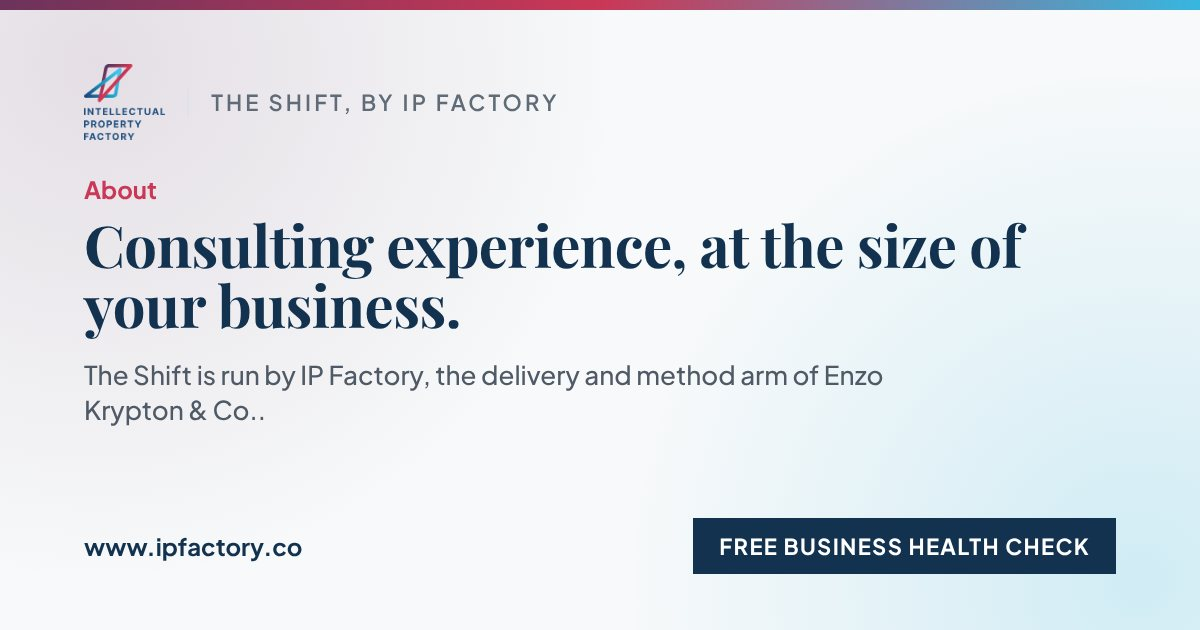
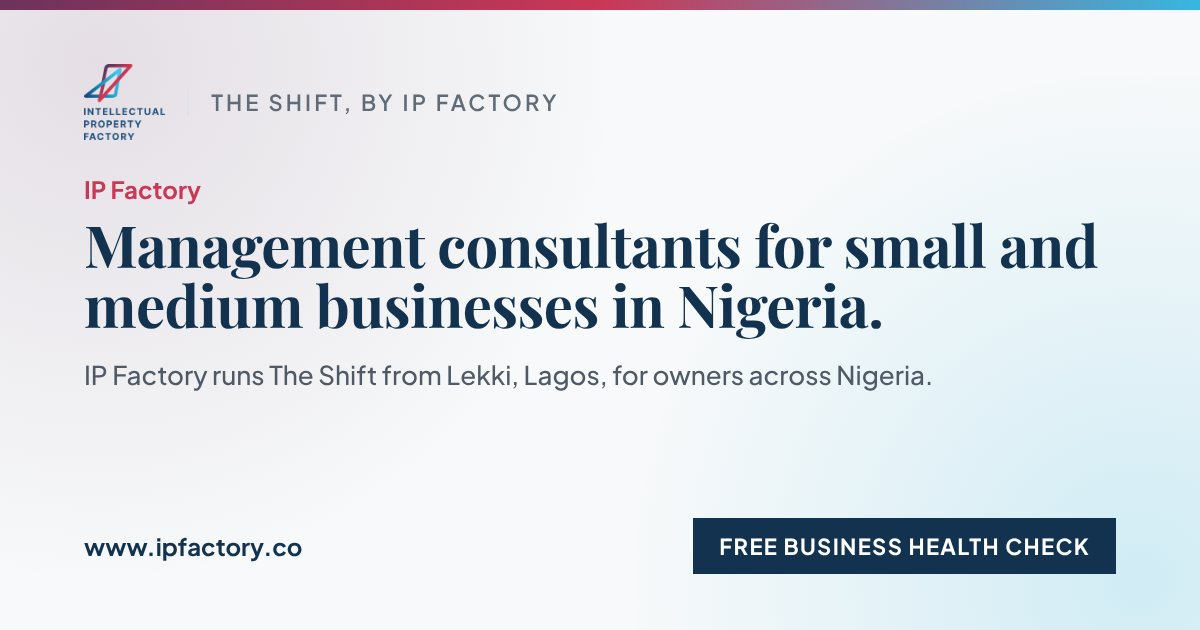
Rewrite About for what people search, and drop "We say so up front"
ET, 10 November 2026: the About page was not strong or aligned with search.
It now answers the searches an About page gets, and leaves "small business
consultant in Lagos" to the home page so the two do not compete:

- Title "About IP Factory: SME management consultants in Lekki, Lagos";
  heading "Management consultants for small and medium businesses in
  Nigeria."; the line under it says who we are, where, and who is behind us
  (Enzo Krypton & Co., 250+ clients since 2011).
- The figures the site already states (250+, 50+, Lekki) above the link to
  Experience.
- What we do, with a link to each service it names, so the page passes
  search engines on to them; how we work ("Our analysts and AI do the heavy
  lifting, under that IP Factory consultant.", no defensive aside); who it is
  for, unchanged.
- Its own questions (who is behind IP Factory, where, what size, how to
  start), also as FAQ structured data, and a new share card.
- The words search engines read live in shared/about.ts, used by the page
  and by shared/seo.ts.

Intended change to test expectations: the About tests check the new
heading, title, links and questions, and that "say so" is gone.

Claude-Session: https://claude.ai/code/session_01Q2r64sNm7T8MW5eH65ApRf

Changed region(s): [[0.0617, 0.3317, 0.925, 0.5429], [0.0617, 0.573, 0.7708, 0.6937], [0.0617, 0.2714, 0.185, 0.3317]]

diff --git a/client/src/pages/AboutPage.tsx b/client/src/pages/AboutPage.tsx
@@ -1,25 +1,35 @@
 /**
- * About (/about): who runs The Shift, what we are and are not, who it is for and who you work with. The track record,
- * clients and research are on Experience (/experience) since 6 November 2026.
+ * About (/about): who IP Factory is, where it is, who is behind it, what it does and how, and who it is for, written for
+ * the searches an About page answers (ET, 10 November 2026; the words search engines read are in shared/about.ts). The
+ * track record, clients and research are on Experience (/experience) since 6 November 2026.
  */
-import { CheckCta, useStartCheck } from "@/components/home/HomeSections";
+import { CheckCta, Faq, useStartCheck } from "@/components/home/HomeSections";
 import { Reveal, Stagger } from "@/components/motion";
 import { PageHero, SectionHeading } from "@/components/PageHero";
 import { SiteShell, usePageMeta, useScrollToTop } from "@/components/SiteShell";
+import { ABOUT_FAQ, ABOUT_FIGURES, ABOUT_HEADING, ABOUT_SUB } from "@shared/about";
 import { BRAND } from "@shared/brand";
 import { formatNaira } from "@shared/businessSupport";
-import { startingPriceOf } from "@shared/products";
-import { CheckCircle2, X } from "lucide-react";
+import { productById, servicePath, startingPriceOf } from "@shared/products";
+import { CheckCircle2 } from "lucide-react";
 import React from "react";
 import { Link } from "wouter";
 import { PAGE_META } from "@shared/pageMeta";
 
-const WHO_YOU_WORK_WITH = [
+/** How we work: what an owner can hold us to. */
+const HOW_WE_WORK = [
   `A named ${BRAND.organisationName} consultant checks every piece of work before you get it.`,
-  "Analysts prepare the work and every Session.",
-  "A partner reviews plans and funding packs.",
-  "We use AI for analysis and say so.",
+  `Our analysts and AI do the heavy lifting, under that ${BRAND.organisationName} consultant.`,
+  "A partner reviews every plan and funding pack.",
+  "Every price is on the page, and we confirm your delivery date once your records are complete.",
+  "Every piece of work ends with a handover call, then a Day-30 Review.",
 ] as const;
+
+/** A service named in the copy, linked to its page. */
+function ServiceLink({ id }: { id: string }) {
+  const product = productById(id)!;
+  return <Link href={servicePath(product)} className="font-semibold text-brand underline underline-offset-4">{product.name}</Link>;
+}
 
 export default function AboutPage() {
   useScrollToTop();
@@ -28,49 +38,71 @@ export default function AboutPage() {
 
   return (
     <SiteShell>
-      <PageHero eyebrow="About" title="Consulting experience, at the size of your business." sub={`${BRAND.productName} is run by ${BRAND.organisationName}, the delivery and method arm of ${BRAND.trackRecord.groupName}.`} />
-      <section aria-label="Our experience" className="border-b border-line bg-brand-tint py-6">
-        <p className="container mx-auto max-w-5xl text-ink-600">Our track record, the clients we have worked with and the research behind the method are on <Link href="/experience" className="font-semibold text-brand underline underline-offset-4">Experience</Link>.</p>
+      <PageHero eyebrow={`About ${BRAND.organisationName}`} title={ABOUT_HEADING} sub={ABOUT_SUB} />
+
+      <section aria-label="Our experience" className="border-b border-line bg-brand-tint py-8">
+        <div className="container mx-auto max-w-5xl">
+          <dl className="grid grid-cols-1 gap-6 text-center sm:grid-cols-3">
+            {ABOUT_FIGURES.map((figure) => (
+              <div key={figure.label}>
+                <dt className="sr-only">{figure.label}</dt>
+                <dd className="font-display text-4xl font-semibold tracking-[-0.03em] text-brand-deep">{figure.value}</dd>
+                <dd className="mt-1 text-sm text-ink-600">{figure.label}</dd>
+              </div>
+            ))}
+          </dl>
+          <p className="mt-6 text-center text-ink-600">Our track record, the clients we have worked with and the research behind the method are on <Link href="/experience" className="font-semibold text-brand underline underline-offset-4">Experience</Link>.</p>
+        </div>
       </section>
 
       <section id="what" aria-labelledby="what-heading" className="border-b border-line bg-paper-sunken/50 py-20 sm:py-24">
         <div className="container mx-auto grid max-w-5xl grid-cols-1 items-start gap-12 md:grid-cols-2">
           <Reveal>
-            <SectionHeading id="what-heading" eyebrow="What we are, and are not" title="We don't run your business; you do." />
-            <ul className="mt-6 space-y-2 text-ink-600">
-              <li className="flex items-center gap-3"><X className="h-4 w-4 text-brand" aria-hidden />We are not a course.</li>
-              <li className="flex items-start gap-3"><X className="mt-1 h-4 w-4 shrink-0 text-brand" aria-hidden />We do not hand you a report and disappear. Every piece of work ends with a handover call, and we check in thirty days later.</li>
-            </ul>
+            <SectionHeading id="what-heading" eyebrow="What we do" title="We find what is holding your business back, then fix it." />
+            <p className="mt-6 text-lg leading-relaxed text-ink-600">Every engagement starts with the problem, not a package. The free Business Health Check reads your business in ten minutes. Then you choose how we help.</p>
+            <p className="mt-4 leading-relaxed text-ink-soft">We don't run your business; you do. We are not a course: we do the work, or fix it with you.</p>
           </Reveal>
-          <Reveal delay={0.12} className="space-y-5 text-lg leading-relaxed text-ink-600 md:pt-8">
-            <p>We work out what is really wrong. Then we either do the work for you, or tell you what to do, hand you the tools and review it with you every week until it is done.</p>
-            <p className="border border-brand-line bg-brand-tint p-5 text-base text-brand-deep">Our analysts and AI do the heavy lifting, under a named {BRAND.organisationName} consultant. We say so up front.</p>
+          <Reveal delay={0.12} className="md:pt-8">
+            <ul className="space-y-5 text-ink-600">
+              <li><span className="block font-semibold text-ink">Done for You</span>Finished work from your records, in days: a <ServiceLink id="business_plan" />, a <ServiceLink id="cash_flow_forecast" /> or a <ServiceLink id="pricing_unit_cost_review" />.</li>
+              <li><span className="block font-semibold text-ink">The <ServiceLink id="business_review" /></span>Two weeks and two Sessions that find the one problem to fix first.</li>
+              <li><span className="block font-semibold text-ink">The <ServiceLink id="six_week_fix" /></span>One problem and one Measure of Success, with a Weekly Check-in until it moves.</li>
+              <li><span className="block font-semibold text-ink">Every month</span>Your <ServiceLink id="monthly_accounts" />, a <ServiceLink id="monthly_adviser_review" />, or <ServiceLink id="digital_marketing" />.</li>
+            </ul>
           </Reveal>
         </div>
       </section>
 
-      <section id="for" aria-label="Who it is for" className="border-b border-line py-20 sm:py-24">
+      <section id="how" aria-labelledby="how-heading" className="border-b border-line py-20 sm:py-24">
         <div className="container mx-auto grid max-w-5xl grid-cols-1 gap-12 md:grid-cols-2">
+          <Reveal><SectionHeading id="how-heading" eyebrow="How we work" title="A consultant you can name, on every piece of work." /></Reveal>
+          <Stagger as="ul" className="space-y-3 text-lg text-ink-600 md:pt-8">
+            {HOW_WE_WORK.map((line) => (
+              <li key={line} className="flex items-start gap-3"><CheckCircle2 className="mt-1 h-5 w-5 shrink-0 text-brand" aria-hidden />{line}</li>
+            ))}
+          </Stagger>
+        </div>
+      </section>
+
+      <section id="for" aria-labelledby="for-heading" className="border-b border-line bg-paper-sunken/50 py-20 sm:py-24">
+        <div className="container mx-auto max-w-5xl">
           <Reveal>
             <SectionHeading id="for-heading" eyebrow="Who it is for" title="Owners who already trade." />
-            <p className="mt-6 text-lg leading-relaxed text-ink-600">
+            <p className="mt-6 max-w-3xl text-lg leading-relaxed text-ink-600">
               Business owners in Nigeria who want a straight answer about their numbers, prices, cash, funding, people or sales. We work with businesses across Nigeria; most of the work happens online.
             </p>
-            <p className="mt-4 leading-relaxed text-ink-soft">
+            <p className="mt-4 max-w-3xl leading-relaxed text-ink-soft">
               Smaller business? Start with the free Business Health Check and a Done for You product, from {formatNaira(startingPriceOf("done_for_you"))}. Several problems across a larger business? Start with a Business Review; work that needs a project team goes to {BRAND.trackRecord.groupName}.
             </p>
           </Reveal>
-          <div>
-            <Reveal><SectionHeading id="team-heading" eyebrow="Who you work with" title="People, with AI behind them." /></Reveal>
-            <Stagger as="ul" className="mt-6 space-y-3 text-lg text-ink-600">
-              {WHO_YOU_WORK_WITH.map((line) => (
-                <li key={line} className="flex items-start gap-3"><CheckCircle2 className="mt-1 h-5 w-5 shrink-0 text-brand" aria-hidden />{line}</li>
-              ))}
-            </Stagger>
-          </div>
         </div>
       </section>
 
+      <section aria-label="Questions about us" className="py-20 sm:py-24">
+        <div className="container mx-auto max-w-3xl">
+          <Faq id="about-questions" heading={`Questions about ${BRAND.organisationName}`} items={ABOUT_FAQ} />
+        </div>
+      </section>
 
       <CheckCta onStart={startCheck} />
     </SiteShell>

diff --git a/test/client/pages/about.ui.test.tsx b/test/client/pages/about.ui.test.tsx
@@ -7,6 +7,7 @@ import { AVOIDED_WORDS, renderAt } from "./publicPageHarness";
 vi.mock("@/lib/trpc", async () => (await import("./publicPageHarness")).PRICES_MOCK);
 
 const { default: AboutPage } = await import("@/pages/AboutPage");
+const { ABOUT_FAQ, ABOUT_HEADING } = await import("@shared/about");
 
 afterEach(cleanup);
 
@@ -26,9 +27,25 @@ describe("About (/about)", () => {
     const forWhom = container.querySelector("#for")!.textContent!;
     expect(forWhom).toContain("a Done for You product, from ₦300,000");
     expect(forWhom).toContain("Start with a Business Review");
-    expect(forWhom).toContain("We use AI for analysis and say so.");
     expect(forWhom).not.toMatch(/training timetable|Advisory\./);
-    expect(container.querySelector("#what")!.textContent).toContain("We are not a course.");
+    expect(container.querySelector("#what")!.textContent).toContain("We are not a course");
+    // How we work names the consultant behind the AI, without the defensive aside (ET, 10 November 2026).
+    expect(container.querySelector("#how")!.textContent).toContain("Our analysts and AI do the heavy lifting, under that IP Factory consultant.");
+    expect(container.textContent).not.toMatch(/say so/i);
+  });
+
+  it("answers the searches an About page gets: who IP Factory is, where, who is behind it, and what it does (ET, 10 November 2026)", () => {
+    const { container } = renderAt("/about", AboutPage);
+    expect(screen.getByRole("heading", { level: 1 }).textContent).toBe(ABOUT_HEADING);
+    expect(document.title).toBe("About IP Factory: SME management consultants in Lekki, Lagos | The Shift, by IP Factory");
+    expect(container.textContent).toContain("Lekki, Lagos");
+    expect(container.textContent).toContain("Enzo Krypton & Co.");
+    // Each service named links to its own page, so the page passes search engines on to them.
+    const what = within(container.querySelector("#what") as HTMLElement);
+    for (const [name, path] of [["Business Plan", "/services/business-plan"], ["13-Week Cash Flow Forecast", "/services/13-week-cash-flow-forecast"], ["Business Review", "/services/business-review"], ["Six-Week Fix", "/services/six-week-fix"], ["Digital Marketing", "/services/digital-marketing"]]) {
+      expect(what.getByRole("link", { name }).getAttribute("href")).toBe(path);
+    }
+    for (const item of ABOUT_FAQ) expect(screen.getByText(item.q)).toBeTruthy();
   });
 
 });

diff --git a/shared/seo.ts b/shared/seo.ts
@@ -12,6 +12,7 @@ import { GUIDES, guidePath } from "./guides";
 
 export { HOME_META, PAGE_META, pageTitle, productMeta, SERVICE_SEARCH_TITLES, SITE_ORIGIN } from "./pageMeta";
 import { HOME_META, PAGE_META, pageTitle, productMeta, SITE_ORIGIN, type Meta } from "./pageMeta";
+import { ABOUT_FAQ, ABOUT_HEADING, ABOUT_SUB } from "./about";
 
 const ORGANISATION_ID = `${SITE_ORIGIN}/#organisation`;
 
@@ -117,7 +118,7 @@ export function publicPages(): PublicPage[] {
     }),
     page("/how-we-work", PAGE_META.howWeWork, "How we work with your business.", [PAGE_META.howWeWork.description], [], PAGE_META.howWeWork.title, { line: "The free check, four ways to work with us, and what every piece of work comes with." }),
     page("/experience", PAGE_META.experience, "We have done this before, many times.", [PAGE_META.experience.description], [], PAGE_META.experience.title, { line: `${BRAND.trackRecord.clients} clients advised since ${BRAND.trackRecord.since}, and the research behind the method.` }),
-    page("/about", PAGE_META.about, "Consulting experience, at the size of your business.", [PAGE_META.about.description]),
+    page("/about", PAGE_META.about, ABOUT_HEADING, [ABOUT_SUB, ...ABOUT_FAQ.map((item) => `${item.q} ${item.a}`)], [faqJsonLd(ABOUT_FAQ)], "About", { eyebrow: BRAND.organisationName, line: firstSentence(ABOUT_SUB) }),
     page("/guides", PAGE_META.guides, "Answers to what owners ask.", [PAGE_META.guides.description, ...GUIDES.map((guide) => `${guide.h1} ${guide.description}`)], [], PAGE_META.guides.title, { eyebrow: "Guides", line: "Plain answers to what owners in Nigeria search for." }),
     ...GUIDES.map((guide) => page(guidePath(guide), { title: guide.title, description: guide.description }, guide.h1, [guide.lede, ...guide.sections.flatMap((section) => [section.heading, ...(section.paragraphs ?? []), ...(section.points ?? [])])], [faqJsonLd(guide.faq)], guide.h1, { eyebrow: "A guide for owners in Nigeria", line: firstSentence(guide.lede) })),
     page("/questions", PAGE_META.questions, "Questions owners ask.", QUESTION_GROUPS.flatMap((group) => group.items.map((item) => `${item.q} ${item.a}`)), [faqJsonLd(QUESTION_GROUPS.flatMap((group) => group.items))], PAGE_META.questions.title, { line: "Paying, delivery dates, refunds, your information, and each service." }),

diff --git a/shared/about.ts b/shared/about.ts
@@ -1,0 +1,27 @@
+/**
+ * The About page's words that search engines read as well as people (shared/seo.ts renders them into the page's HTML
+ * and its FAQ structured data). Written for the searches an About page answers (ET, 10 November 2026): who IP Factory
+ * is, where it is, who is behind it and who it is for. The home page keeps "small business consultant in Lagos".
+ */
+import { BRAND } from "./brand";
+
+const { groupName, clients, since, partnerYears } = BRAND.trackRecord;
+const clientCount = clients.replace(/\+$/, "");
+
+export const ABOUT_HEADING = "Management consultants for small and medium businesses in Nigeria.";
+
+export const ABOUT_SUB = `${BRAND.organisationName} runs ${BRAND.productName} from Lekki, Lagos, for owners across Nigeria. We are part of ${groupName}, a Nigerian management consulting firm whose partners have advised more than ${clientCount} clients since ${since}.`;
+
+/** The figures on the page, each one the site already states and ET confirmed (shared/brand.ts). */
+export const ABOUT_FIGURES = [
+  { value: clients, label: `clients advised since ${since}` },
+  { value: partnerYears, label: "years of partner experience" },
+  { value: "Lekki", label: "our office, in Lagos" },
+] as const;
+
+export const ABOUT_FAQ = [
+  { q: `Who is behind ${BRAND.organisationName}?`, a: `${BRAND.organisationName} is the delivery and method arm of ${groupName}, a Nigerian management consulting firm. Its partners have advised more than ${clientCount} clients since ${since}.` },
+  { q: "Where are you based?", a: `Our office is at ${BRAND.officeAddress.oneLine}. We work with businesses across Nigeria, and most of the work happens online.` },
+  { q: "What size of business do you work with?", a: "Owner-run businesses in Nigeria that already trade. A smaller business usually starts with the free Business Health Check and a Done for You product; a larger one with a Business Review." },
+  { q: "How do I start?", a: "Take the free Business Health Check, ten minutes on your phone, or book a free 20-minute Discovery Call. Either way you know what to fix first, and what it costs, before you pay anything." },
+] as const;

diff --git a/shared/pageMeta.ts b/shared/pageMeta.ts
@@ -53,7 +53,7 @@ export const PAGE_META = {
   howWeWork: { title: "How we work", description: `How ${BRAND.productName} works: the free Business Health Check, the four ways to work with us and how each is paid, and what every piece of work comes with.` },
   experience: { title: "Experience", description: `The record behind ${BRAND.productName}: ${BRAND.trackRecord.clients} clients advised since ${BRAND.trackRecord.since}, the businesses we have worked with, and the research behind the method.` },
   guides: { title: "Guides for small business owners in Nigeria", description: "Plain answers to what owners search for: my business is struggling, how to get a business loan in Nigeria, what a business plan costs, cash flow problems and pricing for profit." },
-  about: { title: "About", description: `${BRAND.productName} is run by ${BRAND.organisationName}, the delivery and method arm of ${BRAND.trackRecord.groupName}. What we are and are not, who it is for, and who you work with.` },
+  about: { title: "About IP Factory: SME management consultants in Lekki, Lagos", description: `${BRAND.organisationName}, in Lekki, Lagos, brings management consulting to small and medium businesses across Nigeria. Part of ${BRAND.trackRecord.groupName}, whose partners have advised ${BRAND.trackRecord.clients} clients since ${BRAND.trackRecord.since}.` },
   questions: { title: "Questions", description: `Answers to the questions owners ask about ${BRAND.productName}: paying, delivery dates, refunds, your information, and each service.` },
   contact: { title: "Contact", description: `Book a free 20-minute call with ${BRAND.productName}, or write to ${BRAND.businessSupportMailbox}. Our office is at ${BRAND.officeAddress.oneLine}.` },
   check: { title: "Free Business Health Check", description: "Ten minutes on your phone. See where your business is stuck, area by area, and the first step that fits. Free, no card needed." },

diff --git a/docs/product/08-decision-log.md b/docs/product/08-decision-log.md
@@ -8,6 +8,7 @@ now the Business Review (₦600,000), and the JUMP programme views have been rem
 
 | Decision | Taken by |
 |---|---|
+| The About page answers what people search for a firm like ours: "SME management consultants in Lekki, Lagos" (the home page keeps "small business consultant in Lagos"), who is behind it (Enzo Krypton & Co., 250+ clients since 2011), where it is, what it does with a link to each service, and its own questions; "We say so up front" is gone | ET, 10 November 2026 |
 | Only a Partner or the Super Admin may let work start before the first payment: opening a room early, or moving the first fee past the start date before anything is paid (a new permission, `approve_work_before_payment`); "desk lead" is no longer a name staff see, only the bundle Partners, Vice Presidents and Senior Associates share | ET, 10 November 2026 |
 | Digital Marketing is sold on what it brings, not on posts: visibility, engagement, enquiries (leads) and sales (conversion), the path its page tells ("From seen to sold") and each month's review counts | ET, 10 November 2026 |
 | On the home page, "Sales are flat and I need more customers every month" leads to Digital Marketing (it led to the Six-Week Fix) | ET, 10 November 2026 |

diff --git a/docs/product/03-app-flow.md b/docs/product/03-app-flow.md
@@ -296,7 +296,7 @@ info@ipfactory.co.
 | `/experience` | `ExperiencePage.tsx` | Home, About | The record: figures, client logos, the firm behind The Shift |
 | `/guides` | `GuidesPage.tsx` | Home, the footer | Answers to what Nigerian owners search for |
 | `/guides/:slug` | `GuidesPage.tsx` | Search, Guides | One guide, its fix and the services with prices; FAQ structured data |
-| `/about` | `AboutPage.tsx` | The menu | IP Factory and Enzo Krypton & Co. |
+| `/about` | `AboutPage.tsx` | The menu | IP Factory and Enzo Krypton & Co., written for the searches an About page answers (who, where, who is behind it, for whom): the figures, what we do with a link to each service, how we work, who it is for, and its questions (FAQ structured data) |
 | `/questions` | `QuestionsPage.tsx` | The menu | Every question, before buying and per service |
 | `/contact` | `ContactPage.tsx` | The menu | "Talk to an expert": the call, the mailbox, the office |
 | `/check` | `CheckPage.tsx`, then `BusinessCheck.tsx` | Every page | The free Business Health Check (4.1). The first screen opens alone; the questions load in the background and take over (R70) |
